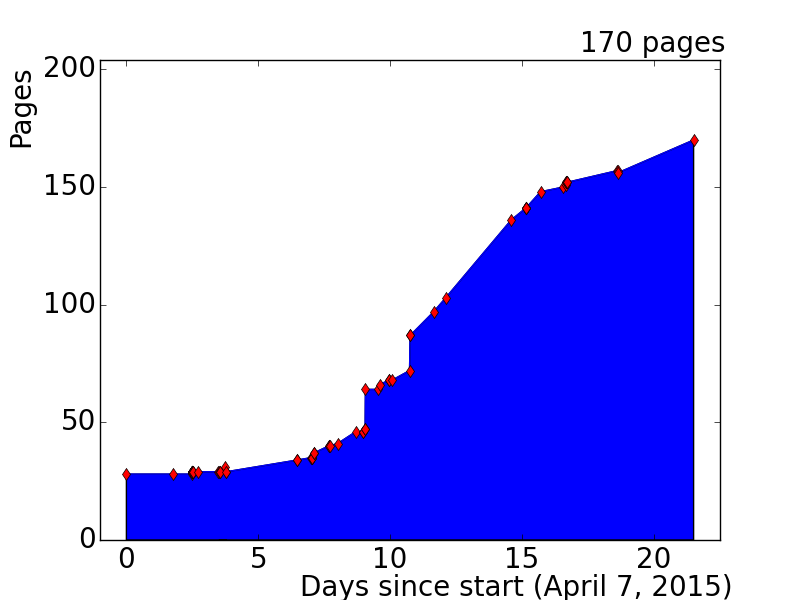
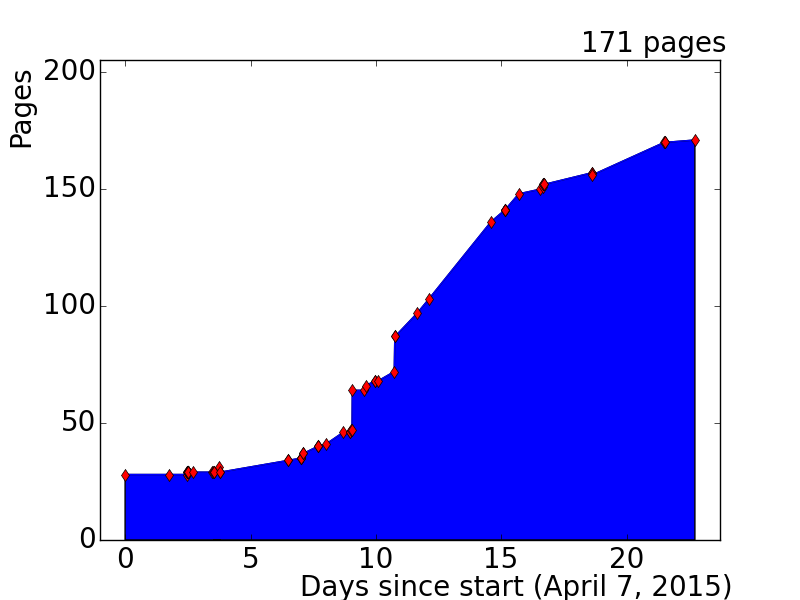
Started lepton reconstruction

diff --git a/ch4-reconstruction.tex b/ch4-reconstruction.tex
@@ -1,20 +1,23 @@
 \chapter{Dataset and Event Reconstruction}\label{ch:dataset-reconstruction}
-The ATLAS Run I data were recorded from 2011 to 2012, with a center-of-mass collision energy of $\sqrt{s}=7 \TeV$ in 2011 and $\sqrt{s}=8 \TeV$ during 2012. Integrated luminosities of $\int L dt=5.46 \ifb$, and $22.8 \ifb$ were delivered by the LHC in the two years, of which $5.08 \ifb$ and $21.3 \ifb$ were recorded by the ATLAS detector. The recorded luminosity accounts for the DAQ inefficiency, as well as the \emph{warm start} period after the declaration of stable beams, during which the tracking detectors are ramped to high voltage and the pixel detector preamplifiers are turned on.After masking data recorded while one or more detector subsystems were not functioning properly, $4.57 \ifb$ and $20.3 \ifb$ of data are considered ready for physics analyses. The volume of delivered, recorded, and physics-ready data are shown as a function of time in figure~\ref{fig:reco-luminosity-runI}. 
-
-During Run I, the LHC was operated with a bunch spacing of $50 \ns$. The increases in the data-taking rate generally correspond to an increase in the number of simultaneous $pp$ interactions per bunch crossing, or \emph{pileup}, denoted $\mu$. The distribution of pileup values for 2011 and 2012 data are shown in figure~\ref{fig:reco-luminosity-pileup}. 
-
 \begin{figure}[htbp]
 	\centering
+	\hfill
 	\subfloat[] {\label{fig:reco-luminosity-runI}
-		\resizebox{0.4\textwidth}{!}{\includegraphics{figures/ch4-reconstruction/intlumivstime2011-2012DQ}}
+		\resizebox{0.4\textwidth}{!}{\includegraphics{figures/ch4-reconstruction/intlumivstime2011-2012DQ.eps}}
 	}
 	\hfill
 	\subfloat[] {\label{fig:reco-luminosity-pileup}
 		\resizebox{0.4\textwidth}{!}{\includegraphics{figures/ch4-reconstruction/mu_2011_2012-dec.eps}}
 	}
+	\hfill
 	\caption{Left: The cumulative delivered, recorded, and physics-ready integrated luminosity versus time in 2011-2011. Right: Distribution of the number of interactions per bunch crossing in events recorded in 2011-2012.}
 	
 \end{figure}
+
+The ATLAS Run I data were recorded from 2011 to 2012, with a center-of-mass collision energy of $\sqrt{s}=7 \TeV$ in 2011 and $\sqrt{s}=8 \TeV$ during 2012. Integrated luminosities of $\int L dt=5.46 \ifb$, and $22.8 \ifb$ were delivered by the LHC in the two years, of which $5.08 \ifb$ and $21.3 \ifb$ were recorded by the ATLAS detector. The recorded luminosity accounts for the DAQ inefficiency, as well as the \emph{warm start} period after the declaration of stable beams, during which the tracking detectors are ramped to high voltage and the pixel detector preamplifiers are turned on. After masking data recorded while one or more detector subsystems were not functioning properly, $4.57 \ifb$ and $20.3 \ifb$ of data are considered ready for physics analyses. The volume of delivered, recorded, and physics-ready data are shown as a function of time in figure~\ref{fig:reco-luminosity-runI}. 
+
+During Run I, the LHC was operated with a bunch spacing of $50 \ns$. The increases in the data-taking rate generally correspond to an increase in the number of simultaneous $pp$ interactions per bunch crossing, or \emph{pileup}, denoted $\mu$. The distribution of pileup values for 2011 and 2012 data are shown in figure~\ref{fig:reco-luminosity-pileup}. 
+
 
 \section{Luminosity Measurement}\label{sec:luminosity-measurement}
 The instantaneous luminosity at a $pp$ collider is given by:
@@ -29,16 +32,16 @@ where $R_{\mathrm{inel}}$ is the rate of inelastic $pp$ collisions, and $\sigma_
 	\mathcal{L} = \frac{\mu f_r n_b}{\sigma_{\mathrm{inel}}}.
 \end{equation}
 
-The instantaneous luminosity is measured by ATLAS using several detectors and algorithms, which in general measure the interaction rate per crossing with some efficiency $\epsilon$: $\mu_{\mathrm{vis}} = \epsilon \mu < \mu$. Defining the \emph{visible cross section} to be $\sigma_{\mathrm{vis}}\equiv \epsilon \sigma_{\mathrm{vis}}$, the instantaneous luminosity as measured by a particular detector is:
+The instantaneous luminosity is measured by ATLAS using several detectors and algorithms, which have some efficiency $\epsilon$ to detect a $pp$ interaction, and measure the \emph{visible} number of interactions per bunch crossing, $\mu_{\mathrm{vis}} = \epsilon \mu$. Defining the visible cross section to be $\sigma_{\mathrm{vis}}\equiv \epsilon \sigma_{\mathrm{vis}}$, the instantaneous luminosity as measured by a particular detector is:
 
 \begin{equation}\label{eqn:reco-luminosity-detected}
 	\mathcal{L} = \frac{\mu_{\mathrm{vis}} f_r n_b}{\sigma_{\mathrm{vis}}}.
 \end{equation}
 
-The visible cross section is essentially a calibration constant for a particular detector, which is determined during dedicated calibration runs where the luminosity is determined directly from the geometry of the beams. 
+The visible cross section is a calibration constant for a particular detector, which is determined during dedicated calibration runs in which the luminosity is determined directly from the geometry of the beams. The calibration procedure is described in section~\ref{sec:reco-luminosity-calibration}. 
 
 \subsection{Luminosity Detectors}\label{sec:reco-luminosity-detectors}
-ATLAS performs many redundant luminosity measurements using several detectors. The detectors fall into two categories. \emph{Event counting} detectors have a binary response, returning a 0 or 1 depending on whether a bunch crossing satisfies a set of criteria defined to detect an inelastic $pp$ collision. Such detectors essentially measure the first two bins of the Poisson-distributed number of interactions per bunch crossing, from which the mean $\mu$ be derived. \emph{Hit counting} detectors, on the other hand, count some quantity proportional to the number of interactions in a given bunch crossing, such as the number of particles identified by a particular detector subsystem. A hit counting measurement typically yields more information about an event at the cost of additional systematic uncertainties.
+ATLAS performs many redundant luminosity measurements using several detectors. The detectors fall into two categories. \emph{Event counting} detectors have a binary response, returning a 0 or 1 depending on whether a bunch crossing satisfies a set of criteria defined to detect an inelastic $pp$ collision. Such detectors essentially measure $p(0;\,\mu)$, the probability that an event falls in the first bin of a Poisson distribution, from which the mean $\mu$ be calculated. \emph{Hit counting} detectors, on the other hand, count some quantity proportional to the number of interactions in a given bunch crossing, such as the number of particles identified by a particular detector subsystem. A hit counting measurement typically yields more information about an event at the cost of additional systematic uncertainties.
 
 Ideally, a luminosity detector exhibits the following features: 
 
@@ -47,7 +50,7 @@ Ideally, a luminosity detector exhibits the following features:
 	\item The efficiency of the detector should also be constant over long timescales.
 	\item The response of the detector and the readout should be very fast. As the LHC bunches are not identical, with different numbers of protons and emittances, it is useful to measure luminosity for each colliding bunch pair, as often as once every $25 \ns$. The colliding bunch pairs are labeled by the bunch crossing identification number, or BCID; consecutive BCIDs are separated by $25 \ns$. 
 	\item The efficiency should be high enough to yield sufficient statistics. The data are used in increments as shorts at $20~$s, so the statistics collected over this time scale scale should be high enough that the total uncertainty is dominated by systematic effects. On the other hand, for event counting detectors, the efficiency should not be so high that the detector is saturated. The determination of the mean of a Poisson distribution from the first two bins requires that the first two bins both have adequate statistics. 
-	\item The backgrounds to a detector must be understood. Detectors can be sensitive to a wide range of phenomena aside from $pp$ collisions, which should not be counted as luminosity. These include \textcolor{red}{(afterglow, beam-gas interactions, ...)}. 
+	\item The backgrounds should be low and understandable. Detectors can be sensitive to a wide range of phenomena aside from $pp$ collisions, which should not be counted as luminosity. For example, some detectors observe a phenomenon called afterglow, characterized by a small amount of activity in the BCIDs immediately following a collision and likely due to photons from nuclear de-excitations in the detector material. The background can be estimated using the observation that the level of afterglow background is proportional to the luminosity in the colliding BCIDs, and decays away with several time constants. Collisions between a beam and residual gas in the beam pipe, called beam-gas interactions, can also contribute a low level of background, and can be estimated by observing non-colliding bunches passing through the interaction region.
 \end{itemize}
 
 The central value of the luminosity measurement is determined by the \emph{beam conditions monitor} (BCM), which fulfills most of these desired criteria. The BCM consists of eight diamond-based particle detectors, four on each side of the interaction point at $|z|=184 \cm$ and $|\eta|=4.2$. The detectors are have a physical cross section of approximately $1 \cm^2$, and are arranged in a cross pattern, with two readouts corresponding to the vertical and horizontal pairs. The design goal of the BCM is to monitor backgrounds and to trigger a beam dump if beam losses towards the inner detector become too high; accordingly, the detector has a very fast readout, and can provide a bunch-by-bunch luminosity measurement with a time resolution of $\sim 0.7 \ns$. The luminosity is measured using event counting, and can be measured using any combination of the readouts. The configurations used require hits in either the vertical pair (BCMV) or the horizontal pair (BCMH), and either coincident hits on both sides of the interaction point (AND) or a single hit on either side (OR). The small size of the readouts leads to an efficiency of approximately 7\% in the OR configuration, which allows for sufficient statistics without saturating the detector. 
@@ -113,7 +116,7 @@ where $\mu_{\mathrm{vis}}^{\mathrm{MAX}}$ is the visible interaction rate per bu
 
 As an example, the 2011 $pp$ calibration is derived from two pairs of scans in the $x$- and $y$-directions, performed during the same LHC fill on 15 May 2011. The beams had 14 colliding bunch pairs, $\sim0.8\times 10^11$ protons per bunch, $\beta^*=1.5~\mbox{m}$, and a crossing angle of $\alpha=240~\mu\mbox{rad}$. The resulting transverse beam size is approximately $\sigma_{x}\approx\sigma_{y}\approx 40 \micron$, and the average number of interactions per cross with head-on collisions is $\mu\approx 2.3$. The scan was performed in 25 equal steps over a displacement range of $\delta=\pm 233 \micron$.
 
-An example scan curve for the BCMV\_OR algorithm is shown in figure~\ref{fig:reco-vdm-curve}. The vdM scan curve is fitted with a Gaussian plus a constant, which is used as $R_{x,y}(\delta)$ to calculate $\Sigma_{x,y}$ in equation~\ref{eqn:reco-luminosity-CapSigma}. $\mu_{\mathrm{vis}}^{\mathrm{MAX}}$ is determined from the peak of the fitted function. The measured $\sigma_{\mathrm{vis}}$ values for both scans and all 14 colliding bunch pairs are shown in figure~\ref{fig:reco-vdm-sigmavis-bcm-2011}. The luminosity-weighted mean $\sigma_{\mathrm{vis}}$ is taken as the central value, while the scatter of the 28 measurements, which is not consistent with statistical variation, is taken as a systematic uncertainty on the reproducibility of the measurement. 
+An example scan curve showing $\mu_{\mathrm{vis}}^{\mathrm{sp}}\equiv \mu_{\mathrm{vis}}/(n_1n_2)$ as a function of transverse beam separation for the BCMV\_OR algorithm is shown in figure~\ref{fig:reco-vdm-curve}. The vdM scan curve is fitted with a Gaussian plus a constant, which is used as $R_{x,y}(\delta)$ to calculate $\Sigma_{x,y}$ in equation~\ref{eqn:reco-luminosity-CapSigma}. $\mu_{\mathrm{vis}}^{\mathrm{MAX}}$ is determined from the peak of the fitted function. The measured $\sigma_{\mathrm{vis}}$ values for both scans and all 14 colliding bunch pairs are shown in figure~\ref{fig:reco-vdm-sigmavis-bcm-2011}. The luminosity-weighted mean $\sigma_{\mathrm{vis}}$ is taken as the central value, while the scatter of the 28 measurements, which is not consistent with statistical variation, is taken as a systematic uncertainty on the reproducibility of the measurement. 
 
 The visible cross sections for several algorithms using during 2011 are shown in table~\ref{table:reco-luminosity-sigmavis-summary}, along with the efficiency assuming a total inelastic cross section of $\sigma_{\mathrm{inel}}= 71.34~\mbox{mb}$~\cite{TheATLASCollaboration:2014jo}.
 
@@ -184,6 +187,7 @@ Uncertainties on the luminosity measurement over the 2011 data-taking period tot
 
 \begin{figure}
 	\centering
+	\hfill
 	\subfloat[] {\label{fig:reco-luminosity-comparisons-long-term-stability}
 		\resizebox{0.45\textwidth}{!}{\includegraphics{figures/ch4-reconstruction/luminosity_long_term_stability}}
 	}
@@ -191,6 +195,7 @@ Uncertainties on the luminosity measurement over the 2011 data-taking period tot
 	\subfloat[] {\label{fig:reco-luminosity-comparisons-pileup}
 		\resizebox{0.45\textwidth}{!}{\includegraphics{figures/ch4-reconstruction/luminosity_pileup_muscan}}
 	}
+	\hfill
 	\caption{Left:  Comparison of luminosities measured by different algorithms as a function of time in 2011. Right:  Comparison of luminosities measured by different algorithms as a function of the average number of interactions per bunch cross, $\mu$, as measured by BCM\_VOR. The data were taken during a single run by separating the beams in the transverse direction, similar to a van der Meer scan.}
 	\label{fig:reco-luminosity-comparisons}
 \end{figure}
@@ -353,7 +358,7 @@ An example scan curve from the May 2011 vdM scan is shown in figure~\ref{fig:rec
 		\resizebox{3in}{!}{\includegraphics{figures/ch4-reconstruction/c_musp_y_BCID81_NTrkCut5}}
 	}\\
 	\caption{$\mu_{\textrm{vis}}^{(sp)}$ vs. beam separation, with single gaussian plus constant fits, and pulls.}
-	\label{fig:musp}
+	\label{fig:reco-luminosity-vertex-vdm}
 \end{figure}
 
 \ 
@@ -378,7 +383,7 @@ The September 2011 pileup scan is used to derive systematic uncertainties due to
 	\centering
 	\resizebox{6in}{!}{\includegraphics{figures/ch4-reconstruction/c_muscan}}
 	\caption{Percent difference between luminosities measured by vertex counting and BCM\_VOR. The central values are taken to be the average between BCIDs 200 and 999.}
-	\label{fig:mu-scan-final}
+	\label{fig:reco-luminosity-vertexing-muscan}
 \end{figure}
 
 \ 
@@ -402,31 +407,48 @@ A comparison of luminosity measurements from BCM, LUCID, and vertex counting is 
 Events are reconstructed using a wide variety of algorithms designed to identify the products of collisions at the center of the detector. The algorithms transform the raw data read out from the detector -- hits in the inner detector silicon layers and TRT straws, energy deposits in calorimeter cells, and hits in the muon stations -- into a list of physics objects and their energies or momenta. This section describes the techniques used to identify the objects used in the analyses described in chapters~\ref{ch:model-independent} and \ref{ch:resonance}. 
 
 
-\subsection{Electrons and Photons}\label{sec:event-reconstruction-electrons}
-The reconstruction of electrons and photons begins with an energy deposit in the LAr calorimeter. 
+\subsection{Electrons}\label{sec:event-reconstruction-electrons}
+The signature of an electron is an energy deposit in the electromagnetic LAr calorimeter and a track reconstructed by the inner detector pointing at the calorimeter energy cluster.  The electron reconstruction algorithm is seeded by clusters of energy in the calorimeter, with $\Et>2.5 \GeV$ in a window of size $\Delta\eta\times\Delta\phi=0.075\times0.025$. Clusters are classified as photons, not used in the analyses described here, if they have no associated tracks, or if they have one or more tracks consistent with a photon conversion. Clusters matched to a single, well-reconstructed track are classified as electrons. The clusters in the barrel and endcaps are then rebuilt from an area corresponding to $3\times7$ and $5\times$ cells in the second calorimeter layer, respectively. Finally, the cluster energy is determined using a simulation-based calibration scheme. 
 
-The signature of an electron is an energy deposit in the electromagnetic LAr calorimeter and an associated track reconstructed by the inner detector pointing at the calorimeter energy cluster. The energy measurement is taken from the calorimeter, while the direction is taken from the track.
+The electron's trajectory is determined from the inner detector track. The default track reconstruction, which models a helical trajectory with scattering, does not account for the ``highly non-gaussian probability density function of the electron energy loss'' due to bremsstrahlung\cite{Cornelissen:2007vba,TheATLASCollaboration:2012vr}. To improve the modeling of electron trajectories, electron tracks are refit with a Gaussian sum filter (GSF) algorithm. 
 
-The analyses described in this dissertation apply a set of cuts on the properties of reconstructed electrons to discriminate real electrons from backgrounds, such as misidentified jets. The variables used are:
-\begin{itemize}
-	\item Good quality track
-	\item High threshold TRT hits
-	\item Match between track and calorimeter cluster
-	\item Hadronic leakage
-	\item ... Anything else you forgot. Shower shape.
-\end{itemize}
+The electron's energy measurement is taken from the calorimeter. The resolution of the energy measurement is parametrized as:
 
-Several working points are defined, giving different levels of efficiency and background rejection. The analyses here use the tightest working point for the signal electrons, and the looser working points for background estimation (see reducible section).
+\begin{equation}
+	\frac{\sigma(E)}{E} = \frac{a}{\sqrt{e}} \oplus \frac{b}{E} \oplus c,
+\end{equation}
 
-The signature of a photon is similar, based on an energy deposit in the electromagnetic calorimeter. The algorithm identifies both photons which directly shower in the calorimeter, resulting in an energy deposit with no associated track,  and photons which convert in the material in front of the calorimeter, leaving an energy deposit with two tracks pointing at the energy deposit.
+where $a$, $b$, and $c$ are the sampling, noise, and constant terms, respectively, and generally vary with $\eta$. The design value of the sampling term is $a\approx 9-10\%$ in the central region, and worsens at higher pseudorapidities due to the increased material in front of the calorimeters. The noise term, due to electronics noise and pileup effects, is approximately $b = 350 \times \cosh\eta \MeV$. The constant term dominates the resolution at high energies, with a design value of $c=0.7\%$. 
 
+Various properties of reconstructed electrons are used discriminate real electrons from backgrounds, such as misidentified jets. Three sets of cuts are defined with increasing levels of background rejection, called loose, medium, and tight; the analyses described here use the tight set of cuts to define the signal electrons. The loose set of cuts impose requirements on the shower shape in the first and second calorimeter layers, the quality of the track, the fraction of energy in hadronic calorimeter cells behind the LAr cells, and the spatial match of the track and the calorimeter cluster. The medium set of cuts consist of more stringent versions of the loose cuts, and additionally require a small track impact parameter with respect to the primary vertex, a minimum number of high-threshold TRT hits associated with the track, and a hit in the innermost pixel layer. The tight set of cuts again consist of more stringent versions of the medium cuts, with an additional cut on the ratio of the cluster energy to the track momentum ($E/p$) and a veto of candidates associated to a photon conversion vertex. 
 
+\subsubsection{Efficiency}
+
+\subsubsection{Energy Scale and Resolution}
 
 \subsection{Muons}\label{sec:event-reconstruction-muons}
+Muons are identified by matching tracks in the muon spectrometer to tracks in the inner detector. The requirements differ based on the instrumentation available in the vicinity of the muon candidate. The analyses described here use \emph{combined} muons, consisting of tracks reconstructed independently in the inner detector and the muon spectrometer. The muon momentum is determined from a statistical combination of the two track's parameters and their corresponding covariance matrices. Combined muons have the highest purity, but suffer from a loss of acceptance near $\eta\sim 0$, where the muon spectrometer has gaps to accommodate services for the inner detector and calorimeters, and $1.1<\eta<1.3$, where some trajectories only pass through one muon station due to incomplete installation. The remaining categories are \emph{standalone} muons, consisting of a track ony in the muon spectrometer; \emph{segment-tagged} muons, consisting of an inner detector track and one or more track segments in the MDT or CSC chambers; and \emph{calorimeter-tagged} muons, consisting of an inner detector track matched to a calorimeter energy deposit consistent with the passage of a muon. These categories recover efficiency in regions of the detector with less instrumentation at the cost of lower muon purity, and are not used in the analyses described here. 
+
+For all categories of muons, the inner detector track is required to have at least 1 pixel hit, at least 5 SCT hits, at most 2 pixel or SCT holes, and at least 9 TRT hits for $0.1<|\eta|<1.9$. Energy losses in the calorimeter due to ionization, bremsstrahlung, and electron pair production must also be taken into account. 
+
+\subsubsection{Efficiency}
+
+\subsubsection{Energy Scale and Resolution}
+
 
 \subsection{Tau Leptons}\label{sec:event-reconstruction-taus}
 
+\subsubsection{Efficiency}
+
+\subsubsection{Energy Scale and Resolution}
+
+
+
 \subsection{Jets}\label{sec:event-reconstruction-jets}
+
+%\subsubsection{Efficiency}
+
+\subsubsection{Energy Scale and Resolution}
 
 \subsubsection{$B$-tagging}\label{sec:event-reconstruction-bjets}
 

diff --git a/pages.md b/pages.md
@@ -68,3 +68,6 @@
 + [2015-04-25-14h41m50s] 157
 + [2015-04-25-14h44m15s] 156
 + [2015-04-28-11h53m45s] 170
++ [2015-04-28-12h45m29s] 170
++ [2015-04-28-13h03m24s] 170
++ [2015-04-29-17h12m41s] 171
